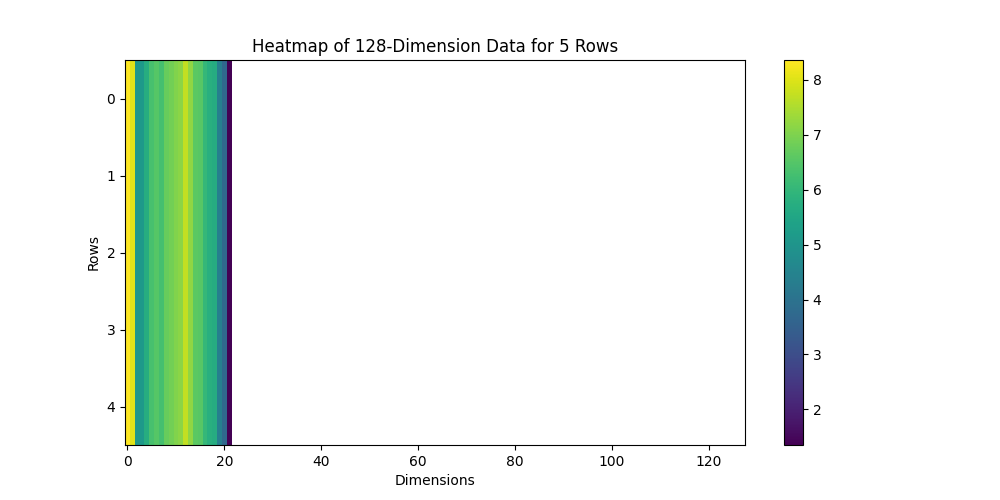
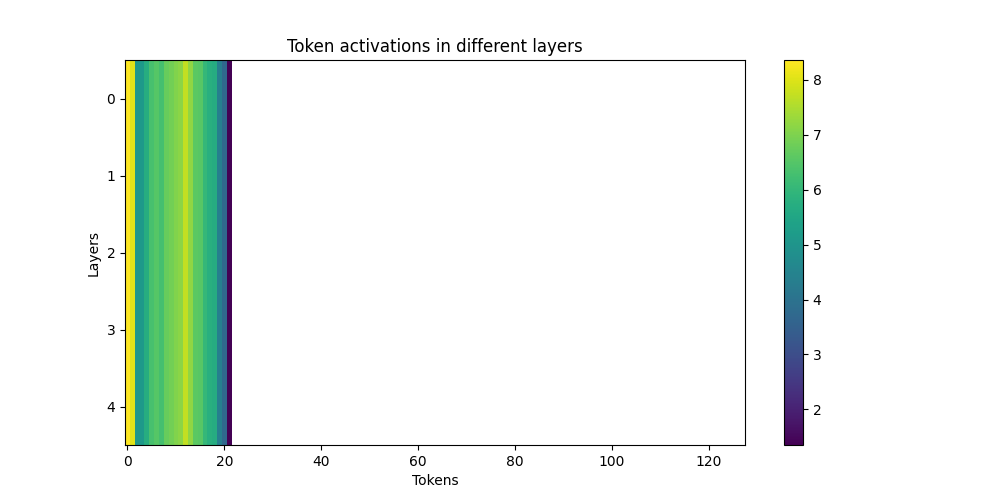
grad norm

Changed region(s): [[0.248, 0.06, 0.62, 0.12], [0.403, 0.93, 0.465, 0.99], [0.093, 0.48, 0.124, 0.54]]

diff --git a/main.py b/main.py
@@ -53,11 +53,14 @@ def plotting(data, name):
     plt.colorbar()
 
     # Set labels
-    plt.xlabel('Dimensions')
-    plt.ylabel('Rows')
+    plt.xlabel('Tokens')
+    plt.ylabel('Layers')
 
     # Optionally, you can add titles
-    plt.title('Heatmap of 128-Dimension Data for 5 Rows')
+    if name == "figures/layer_seq_norm.png" or name == "figures/layer_seq_normwmean.png":
+        plt.title('Token activations in different layers')
+    elif name == "figures/grads_layer_seq_norm.png" or name == "figures/grad_layer_seq_normwmean.png":
+        plt.title('Token gradients in different layers')
 
     # Show the heatmap
     plt.savefig(name)
@@ -122,6 +125,16 @@ class gradients_norm:
         except:
             self.grads = self.get_grads()
     
+        assert np.array(self.grads["layer 0"]).shape[1] == 128
+        self.grads["layer 0"] = np.linalg.norm(self.grads["layer 0"], axis=0)
+        self.grads["layer 1"] = np.linalg.norm(self.grads["layer 1"], axis=0)
+        self.grads["layer 2"] = np.linalg.norm(self.grads["layer 2"], axis=0)
+        self.grads["layer 3"] = np.linalg.norm(self.grads["layer 3"], axis=0)
+        self.grads["layer 4"] = np.linalg.norm(self.grads["layer 4"], axis=0)
+        # self.grads["last layer"] = np.linalg.norm(self.grads["last layer"], axis=0)
+        assert np.array(self.grads["layer 0"]).shape == np.array(self.grads["layer 1"]).shape == np.array(self.grads["layer 2"]).shape == np.array(self.grads["layer 3"]).shape == np.array(self.grads["layer 4"]).shape == (128,)
+    
+    
     def get_grads(self):
         
         grad_embeds = {}
@@ -155,19 +168,20 @@ class gradients_norm:
     def norm(self):
         
         # Additional norm calculations for nested structures
-        assert self.grads["layer 0"][1].shape == 128
-        self.grads["layer 0"] = np.linalg.norm(self.grads["layer 0"], axis=0)
-        self.grads["layer 1"] = np.linalg.norm(self.grads["layer 1"], axis=0)
-        self.grads["layer 2"] = np.linalg.norm(self.grads["layer 2"], axis=0)
-        self.grads["layer 3"] = np.linalg.norm(self.grads["layer 3"], axis=0)
-        self.grads["layer 4"] = np.linalg.norm(self.grads["layer 4"], axis=0)
-        # self.grads["last layer"] = np.linalg.norm(self.grads["last layer"], axis=0)
+    
+        data_norm = np.array([
+            np.log(self.grads["layer 0"]),
+            np.log(self.grads["layer 1"]),
+            np.log(self.grads["layer 2"]),
+            np.log(self.grads["layer 3"]),
+            np.log(self.grads["layer 4"]),
+            ])
         
-        assert self.grads["layer 0"].shape == self.grads["layer 1"].shape == self.grads["layer 2"].shape == self.grads["layer 3"].shape == self.grads["layer 4"].shape == self.grads["last layer"] == (128,)
-        
-        plotting(data=self.grads, name = "figures/grads_layer_seq_norm.png")
+        plotting(data=data_norm, name = "figures/grads_layer_seq_norm.png")
     
     def normwmean(self):
+        
+        assert self.grads["layer 0"].shape == (128,)
         
         actlistmean = np.array([
             np.log(self.grads["layer 0"] - np.mean(self.grads["layer 0"], axis = 0)), 
@@ -178,7 +192,15 @@ class gradients_norm:
             # mean_acts["last layer"]
             ])
 
-        plotting(data=actlistmean, name = "figures/grad_layer_seq_normwmean.png")
+        data_normwmean = np.array([
+            np.log(self.grads["layer 0"]),
+            np.log(self.grads["layer 1"]),
+            np.log(self.grads["layer 2"]),
+            np.log(self.grads["layer 3"]),
+            np.log(self.grads["layer 4"]),
+            ])
+
+        plotting(data=data_normwmean, name = "figures/grad_layer_seq_normwmean.png")
 
 
 if __name__ == "__main__":
@@ -214,9 +236,9 @@ if __name__ == "__main__":
             pickle.dump(activation_embeds, f)
     
 
-    # normed_class = normed(activation_embeds)
-    # normed_class.normwmean()
-    # normed_class.norm()
+    normed_class = normed(activation_embeds)
+    normed_class.normwmean()
+    normed_class.norm()
     
     normed_grad = gradients_norm(model, val_dataloader)
     normed_grad.norm()
